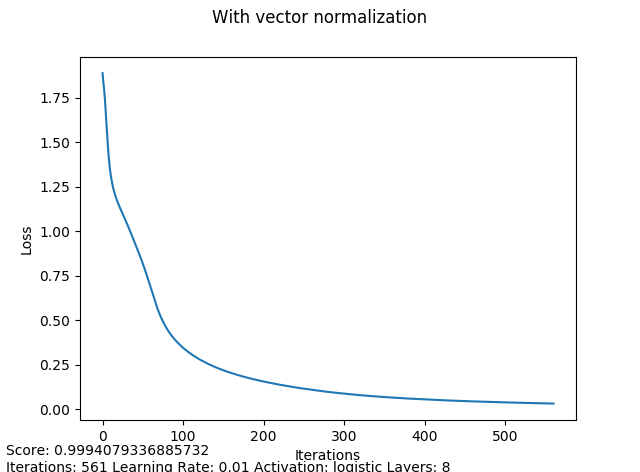
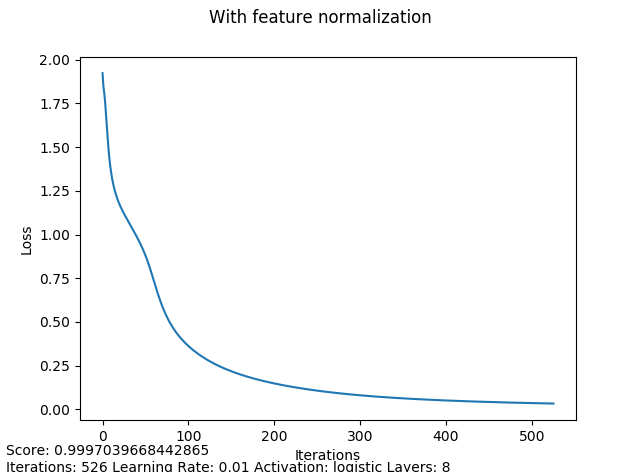
Plot changes

diff --git a/marketMakerImitate/mmPredictor.py b/marketMakerImitate/mmPredictor.py
@@ -38,7 +38,7 @@ if __name__ == '__main__':
     print("test samples: " + str(X_test.shape))
     #print(X_train[0:10,:])
 
-    mlp = MLPClassifier(hidden_layer_sizes=(8), solver='sgd', batch_size='auto',learning_rate_init=0.01, activation='logistic', max_iter=1000)
+    mlp = MLPClassifier(verbose='True', hidden_layer_sizes=(8), solver='sgd', batch_size='auto', learning_rate_init=0.01, activation='logistic', max_iter=1000)
     mlp.fit(X_train, y_train)
 
     score = mlp.score(X_test, y_test)
@@ -51,7 +51,7 @@ if __name__ == '__main__':
     plt.xlabel('Iterations')
     plt.ylabel('Loss')
     plt.figtext(0.01,0.001,info)
-    fig.suptitle('With vector normalization')
+    fig.suptitle('With feature normalization')
     
     plt.show()
      
